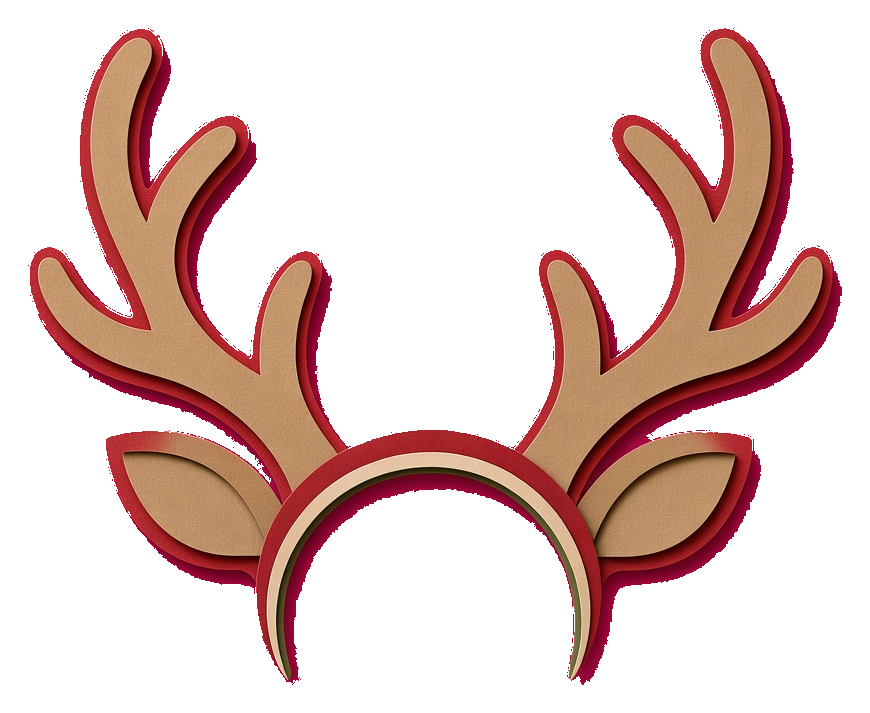
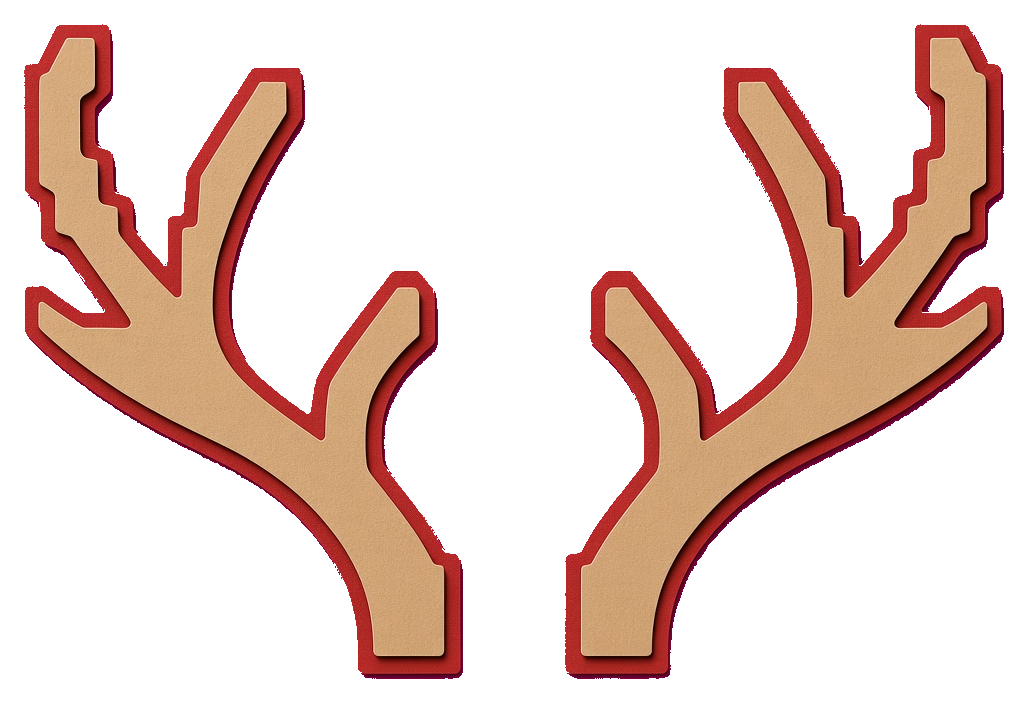
Align paper hat/antlers with pixel scale; drop under-cloth
Restore shared earSpan landmark sizing/position for all styles. Regenerate
paper antlers without headband and a clean Santa hat with no under-cloth;
bump asset cache to v=6.

diff --git a/src/effects.js b/src/effects.js
@@ -718,23 +718,13 @@ export class EffectsEngine {
     const crownX = (face.x ?? face.crownX) * this.w
     const crownY =
       (face.crownY ?? face.y - face.earSpan * 1.05) * this.h - span * 0.28
-    // Landmark scale: paper/vintage read larger on-head than pixel sprites
-    const paperLike = artStyleId === 'paper' || artStyleId === 'vintage'
-    const hatW = clamp(span * (paperLike ? 2.45 : 1.95), paperLike ? 96 : 78, paperLike ? 220 : 168)
+    // Same landmark scale/position for every art style (pixel baseline)
+    const hatW = clamp(span * 1.95, 78, 168)
     const hatH = hatW * 0.82
-    // Paper antlers: wide wing-span vs earSpan; keep natural aspect (never squash 0.5×)
-    const antW = clamp(span * (artStyleId === 'paper' ? 3.55 : paperLike ? 3.1 : 2.2), artStyleId === 'paper' ? 140 : 88, artStyleId === 'paper' ? 360 : paperLike ? 280 : 180)
-    const antImg = this.sprites.antlers
-    const antAspect =
-      antImg && antImg.naturalWidth
-        ? antImg.naturalHeight / antImg.naturalWidth
-        : artStyleId === 'paper'
-          ? 0.82
-          : 0.5
-    const antH = antW * (artStyleId === 'paper' ? Math.max(0.72, antAspect) : antAspect > 0.2 ? antAspect : 0.5)
-    const antLift = span * (artStyleId === 'paper' ? 0.08 : 0.2)
-    if (showAntlers && antImg) {
-      drawSprite(ctx, antImg, crownX, crownY - antLift, antW, antH, {
+    const antW = clamp(span * 2.2, 88, 180)
+    const antH = antW * 0.5
+    if (showAntlers && this.sprites.antlers) {
+      drawSprite(ctx, this.sprites.antlers, crownX, crownY - span * 0.2, antW, antH, {
         anchorX: 0.5,
         anchorY: 1,
         alpha: 0.96,

diff --git a/src/customize.js b/src/customize.js
@@ -174,9 +174,9 @@ function seedAmbientSnow() {
   const paperFlakes =
     art.id === 'paper'
       ? [
-          `${BASE}paper/snowflake.png?v=5`,
-          `${BASE}paper/snowflake-b.png?v=5`,
-          `${BASE}paper/snowflake-c.png?v=5`,
+          `${BASE}paper/snowflake.png?v=6`,
+          `${BASE}paper/snowflake-b.png?v=6`,
+          `${BASE}paper/snowflake-c.png?v=6`,
         ]
       : null
   const count = paperFlakes ? 16 : 22

diff --git a/src/main.js b/src/main.js
@@ -607,9 +607,9 @@ function seedAmbientSnow() {
   const paperFlakes =
     art.id === 'paper'
       ? [
-          `${BASE}paper/snowflake.png?v=5`,
-          `${BASE}paper/snowflake-b.png?v=5`,
-          `${BASE}paper/snowflake-c.png?v=5`,
+          `${BASE}paper/snowflake.png?v=6`,
+          `${BASE}paper/snowflake-b.png?v=6`,
+          `${BASE}paper/snowflake-c.png?v=6`,
         ]
       : null
   const count = paperFlakes ? 18 : 28

diff --git a/src/paperAssets.js b/src/paperAssets.js
@@ -5,7 +5,7 @@ import { loadImage } from './pixelAssets.js'
 
 const BASE = import.meta.env.BASE_URL
 const P = `${BASE}paper`
-const VER = '5'
+const VER = '6'
 
 export const PAPER = {
   guideSnow: `${P}/guide-snow.jpg?v=${VER}`,
